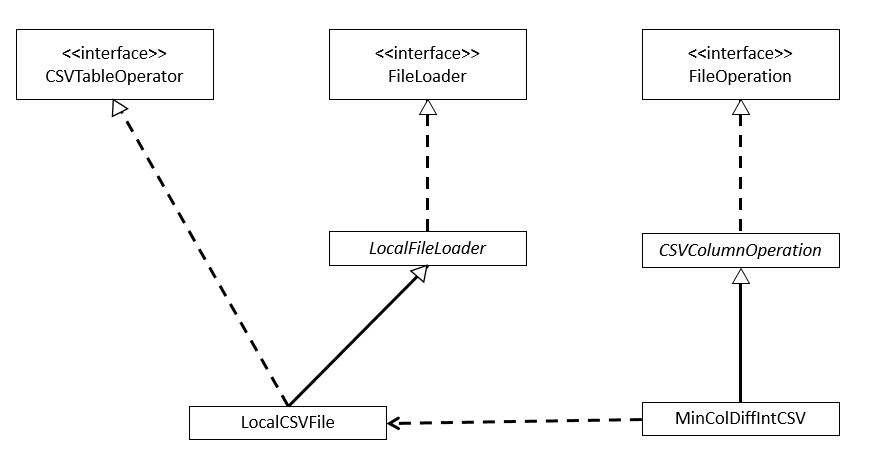
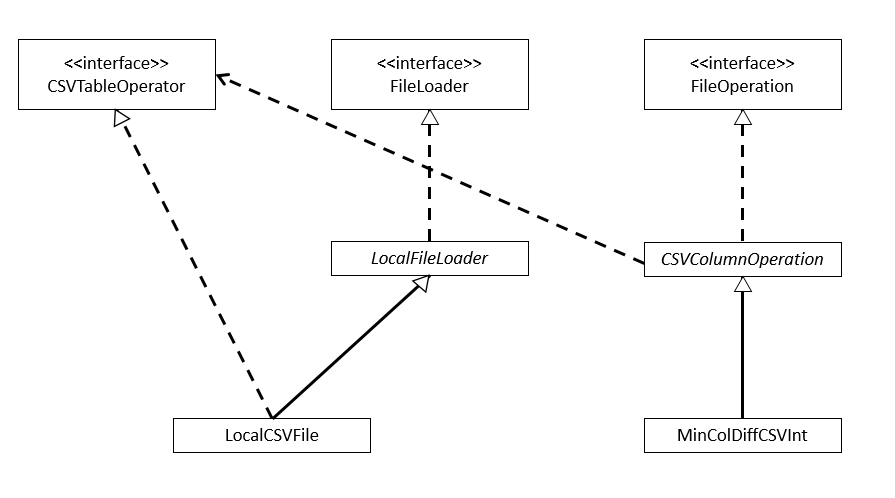
Added improved class diagram.

diff --git a/README.md b/README.md
@@ -4,7 +4,7 @@ here is my solution of the weather challenge.
 I tried my best to separate and abstract the different steps and necessary operations for reusability.
 Here is a small diagram which shows the connections between the classes:  
 
-<img src="Diagram.PNG" width="500" title="Diagram">
+<img src="Diagram.PNG" width="600" title="Diagram">
 
 Best Regards  
 Matthias Bauer
